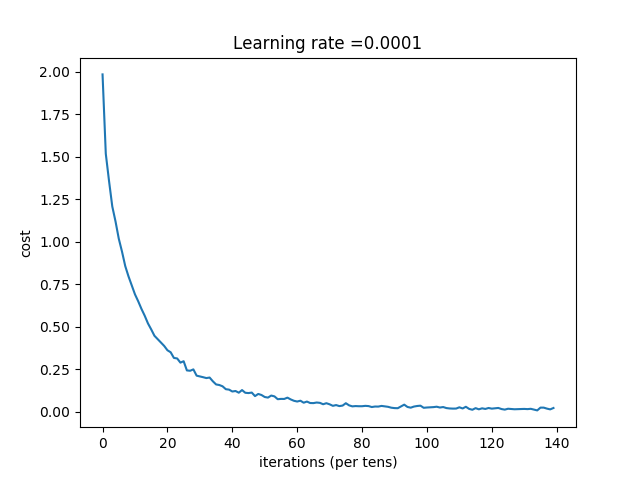
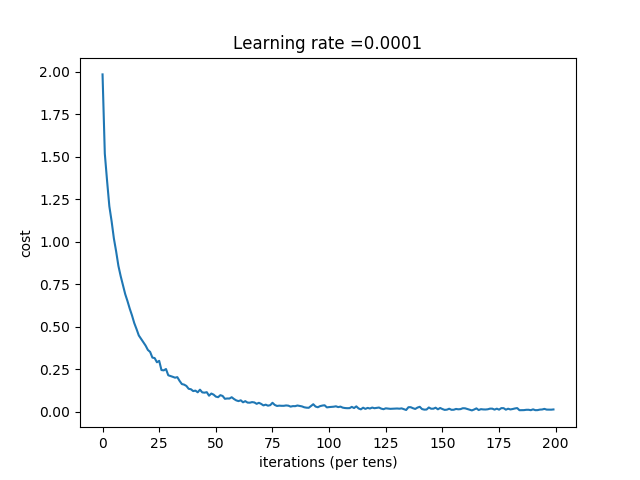
solve predict

diff --git a/NN.py b/NN.py
@@ -19,6 +19,7 @@ test_index = np.load('output/test_index.npy')
 
 X_train, X_val, Y_train, Y_val = train_test_split(X_train_orig, Y_train_orig, test_size=0.20, random_state=42)
 X_train, X_val, Y_train, Y_val = X_train.T, X_val.T, Y_train.T, Y_val.T
+X_test = X_test.T
 print(X_train.shape, X_val.shape, Y_train.shape, Y_val.shape)
 
 
@@ -176,7 +177,7 @@ def random_mini_batches(X, Y, mini_batch_size=32, seed=0):
 
 
 def predict(X, parameters):
-    W1 = tf.convert_to_tensor(parameters["W1"])
+    W1 = tf.convert_to_tensor(parameters['W1'])
     b1 = tf.convert_to_tensor(parameters["b1"])
     W2 = tf.convert_to_tensor(parameters["W2"])
     b2 = tf.convert_to_tensor(parameters["b2"])
@@ -194,7 +195,7 @@ def predict(X, parameters):
               "W4": W4,
               "b4": b4}
 
-    x = tf.placeholder("float", [350, None])
+    x = tf.placeholder("float", [X_train.shape[0], None])
     keep_prob = tf.placeholder(tf.float32, name='keep_prob')
 
     z4 = forward_propagation(x, params, keep_prob)
@@ -207,7 +208,7 @@ def predict(X, parameters):
 
 
 def model(X_train, Y_train, X_test, Y_test, learning_rate=0.0001,
-          num_epochs=700, minibatch_size=32, print_cost=True):
+          num_epochs=1000, minibatch_size=32, print_cost=True):
     """
     Implements a four-layer tensorflow neural network: LINEAR->RELU->LINEAR->RELU->LINEAR->SOFTMAX.
 
@@ -308,12 +309,12 @@ def model(X_train, Y_train, X_test, Y_test, learning_rate=0.0001,
 
 
 parameters = model(X_train, Y_train, X_val, Y_val)
-np.save('output/parameters.npy', parameters)
+#np.save('output/parameters.npy', parameters)
+#parameters = np.load('output/parameters.npy')
 
 prediction = predict(X_test, parameters)
-np.save('output/prediction.npy', prediction)
 
-submission = pd.DataFrame(prediction)
+submission = pd.DataFrame(pd.get_dummies(prediction))
 submission['id'] = test_index
 submission.columns = ['class1', 'class2', 'class3', 'class4', 'class5', 'class6', 'class7', 'class8', 'class9', 'id']
 submission.to_csv("output/submission_all.csv",index=False)
